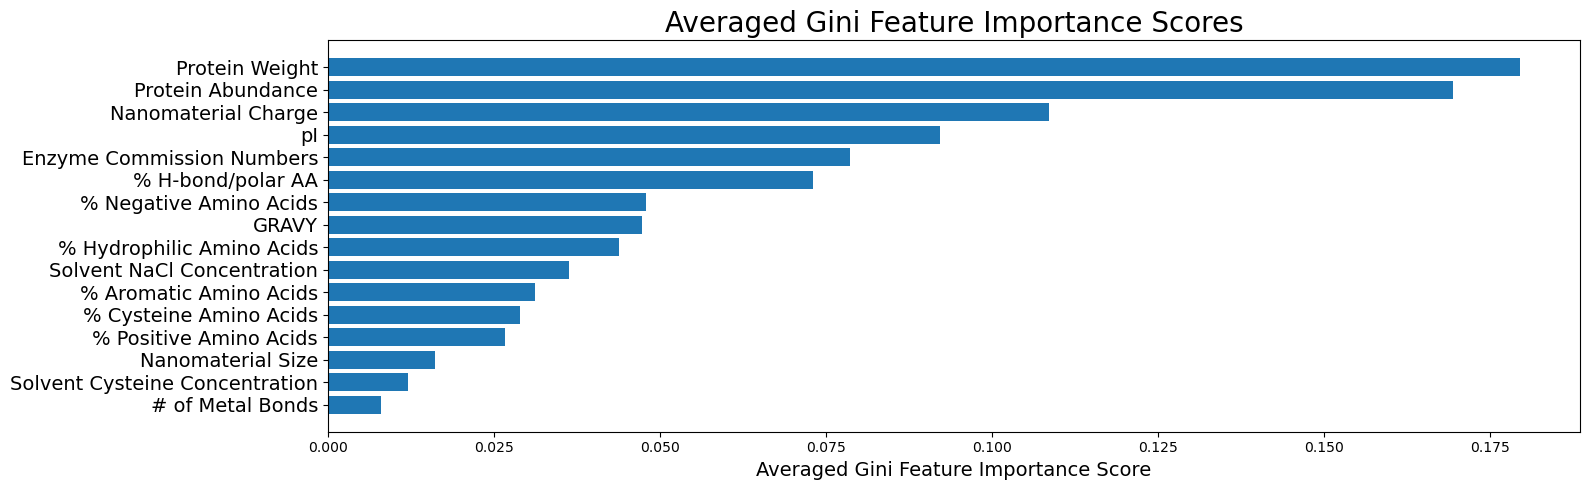
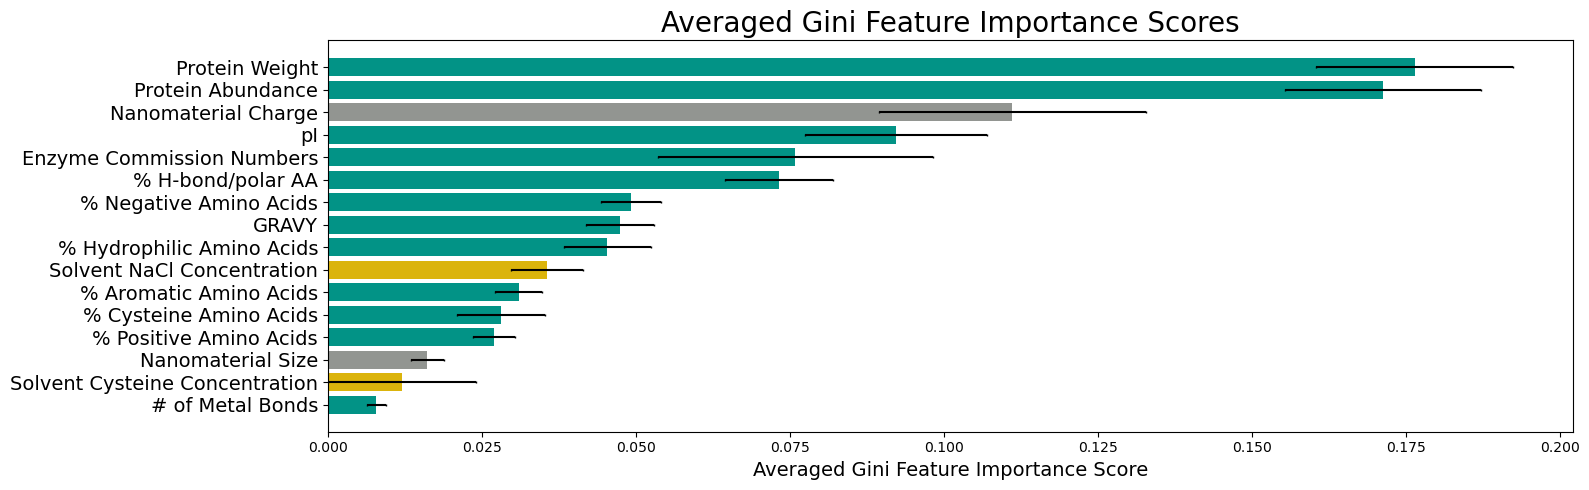
Calculated error bars for feature importances plot

diff --git a/visualization_utils.py b/visualization_utils.py
@@ -8,6 +8,7 @@ import matplotlib.pyplot as plt
 import pandas as pd
 import numpy as np
 import math
+import sys
 
 
 class visualize_data(object):
@@ -91,11 +92,13 @@ def visualize_rfecv(grid_scores):
     plt.show()
 
 
-def visualize_feature_importances(feature_importances):
+def visualize_feature_importances(feature_importances, stddev):
     """ Plot the averaged feature importances from the most to least important as a bar graph
     Args:
         :param: feature_importances (dict): a dictionary containing the features and their corresponding averaged Gini
-    importance value
+        importance value
+        :param: stddev (dict): dictionary containing the features and corresponding standard deviations for calculating
+        error bars
     Returns: None
     """
     # NOTE: Need to consolidate Solvent NaCl concentration, Solvent Cysteine, Nanomaterial Size, and Nanomaterial Charge
@@ -109,40 +112,72 @@ def visualize_feature_importances(feature_importances):
     amino_acids = ['% Hydrophilic', '% Cysteine', '% Aromatic', '% Negative', '% Positive']
 
     combined_nacl = 0
+    combined_nacl_stddev = 0
     for nacl_sol in nacl_solvent:
         combined_nacl += feature_importances.pop(nacl_sol)
+        combined_nacl_stddev += stddev.pop(nacl_sol)
     feature_importances['Solvent NaCl Concentration'] = combined_nacl
+    stddev['Solvent NaCl Concentration'] = combined_nacl_stddev
 
     combined_cys = 0
+    combined_cys_stddev = 0
     for cys_sol in cys_solvent:
         combined_cys += feature_importances.pop(cys_sol)
+        combined_cys_stddev += stddev.pop(cys_sol)
     feature_importances['Solvent Cysteine Concentration'] = combined_cys
+    stddev['Solvent Cysteine Concentration'] = combined_cys
 
     combined_enzy = 0
+    combined_enzy_stddev = 0
     for enzyme_num in enzyme_commission_number:
         combined_enzy += feature_importances.pop(enzyme_num)
+        combined_enzy_stddev += stddev.pop(enzyme_num)
     feature_importances['Enzyme Commission Numbers'] = combined_enzy
+    stddev['Enzyme Commission Numbers'] = combined_enzy_stddev
 
     combined_nano_size = 0
+    combined_nano_size_stddev = 0
     for n_size in nano_size:
         combined_nano_size += feature_importances.pop(n_size)
+        combined_nano_size_stddev += stddev.pop(n_size)
     feature_importances['Nanomaterial Size'] = combined_nano_size
+    stddev['Nanomaterial Size'] = combined_nano_size_stddev
 
     combined_nano_charge = 0
+    combined_nano_charge_stddev = 0
     for n_charge in nano_charge:
         combined_nano_charge += feature_importances.pop(n_charge)
+        combined_nano_charge_stddev += stddev.pop(n_charge)
     feature_importances['Nanomaterial Charge'] = combined_nano_charge
+    stddev['Nanomaterial Charge'] = combined_nano_charge_stddev
 
     for a_acid in amino_acids:
         key = a_acid + ' Amino Acids'
         feature_importances[key] = feature_importances.pop(a_acid)
+        stddev[key] = stddev.pop(a_acid)
 
     feature_importances = dict(sorted(feature_importances.items(), key=lambda item: item[1]))
     features = list(feature_importances.keys())
     values = list(feature_importances.values())
 
+    # reorder standard deviation with respected to sorted feature importances + color code based on qualities
+    protein = ['Protein Weight', 'Protein Abundance', 'pI', 'Enzyme Commission Numbers', '% H-bond/polar AA',
+               '% Negative Amino Acids', 'GRAVY', '% Hydrophilic Amino Acids', '% Aromatic Amino Acids',
+               '% Cysteine Amino Acids', '% Positive Amino Acids', '# of Metal Bonds']
+    nanomaterial = ['Nanomaterial Charge', 'Nanomaterial Size']
+    bar_colors = []
+
+    for key in features:
+        if key in protein:
+            bar_colors.append('xkcd:teal')
+        elif key in nanomaterial:
+            bar_colors.append('xkcd:grey')
+        else:
+            bar_colors.append('xkcd:gold')
+        stddev[key] = stddev.pop(key)
+
     f, ax = plt.subplots(figsize=(16,5))
-    plt.barh(features, values)
+    plt.barh(features, values, xerr=stddev.values(), color=bar_colors, ecolor='black', capsize=1.0)
     plt.title('Averaged Gini Feature Importance Scores', fontsize=20)
     plt.xlabel('Averaged Gini Feature Importance Score', fontsize=14)
     plt.yticks(fontsize=14)

diff --git a/validation_utils.py b/validation_utils.py
@@ -198,9 +198,11 @@ class validation_metrics(object):
             true_val = self._sorted_predicted_results.at[idx, 'True Value']
             self._sorted_predicted_results.at[idx, '% Error Difference'] = (abs(avg_val - true_val))/true_val
 
-        # calculate average of feature importances
+        # calculate average + standard deviation of feature importances
+        stddev = {}
         for feat in self._feature_importances.keys():
+            stddev[feat] = stat.stdev((self._feature_importances[feat]))
             self._feature_importances[feat] = stat.mean(self._feature_importances[feat])
 
-        return dict(zip(keys, avg_errs_vals)), self._sorted_predicted_results, self._feature_importances
+        return dict(zip(keys, avg_errs_vals)), self._sorted_predicted_results, self._feature_importances, stddev
 

diff --git a/estimator.py b/estimator.py
@@ -117,10 +117,10 @@ if __name__ == '__main__':
         pipeline(db, validation=val)
 
     # calculate the average error metric scores + average predicted value
-    average_error_metrics, predicted_values_stats, average_feature_importances = val.calculate_final_metrics()
+    average_error_metrics, predicted_values_stats, average_feature_importances, stddev = val.calculate_final_metrics()
 
     # visualize the feature_importances in a bar graph
-    visualization_utils.visualize_feature_importances(average_feature_importances)
+    visualization_utils.visualize_feature_importances(average_feature_importances, stddev)
 
     # save error metrics + feature importances
     data_utils.save_metrics(average_error_metrics, average_feature_importances, predicted_values_stats)
